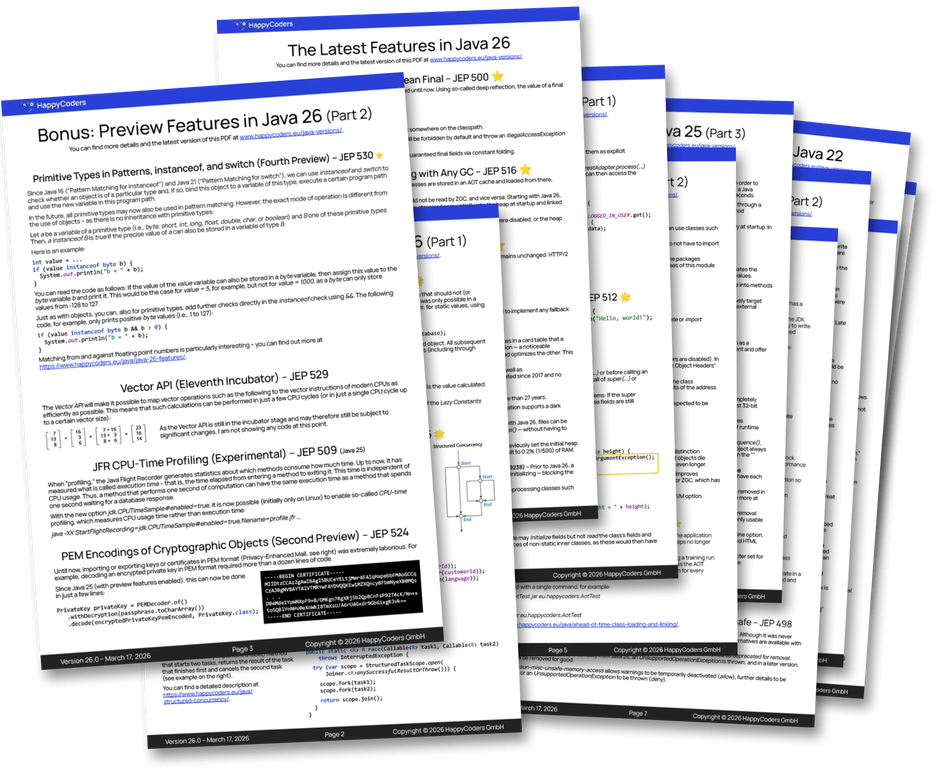
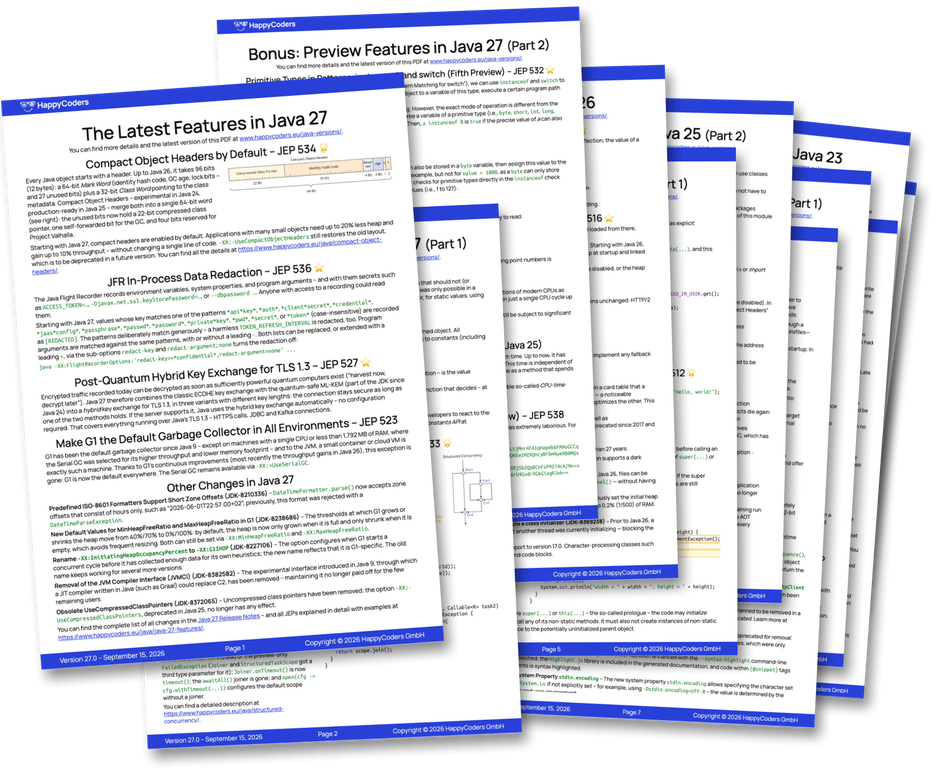
README: Java versions cheat sheet now covers Java 27
The resources block is generated from the website repository; it now
names the newest Java version in the cheat sheet description.

diff --git a/README.md b/README.md
@@ -215,7 +215,7 @@ You'll see an empty cart again.
 
 [<img src="/img/java-versions-cheat-sheet-mockup.png" alt="Java Versions PDF Cheat Sheet Mockup" width="468">](https://www.happycoders.eu/java-versions/)
 
-* Avoid lengthy research with this **concise overview of all Java versions from Java 10 to Java 26**.
+* Avoid lengthy research with this **concise overview of all Java versions from Java 10 to Java 27**.
 * **Discover the innovative features** of each new Java version, summarized on a single page.
 * **Impress your team** with your up-to-date knowledge of the latest Java version.
 
